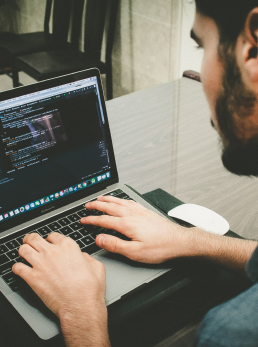
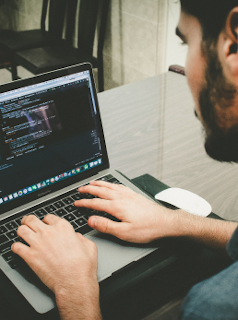
Ajeitando as imagens

diff --git a/css/style.css b/css/style.css
@@ -117,24 +117,21 @@ body {
     background: url(../img/container.svg) no-repeat;
     min-height: 750px;
     min-width: 500px;
-    /* align-self: flex-end; */
-    /* display: flex; */
-    /* justify-content: ; */
-    /* flex-direction: column; */
 }
 
 .container-degrader img {
-    /* position: absolute; */
+    position: absolute;
     border-radius: 50px;
 }
 
-.img_02 {
-    /* top: 50px; */
-    /* margin-top: 100px; */
+#img_02 {
+    right: 290px;
+    top: 165px;
 }
 
-.img_03 {
-    /* float: bottom; */
+#img_03 {
+    right: 140px;
+    top: 350px;
 }
 
 /* Sobre e Projetos */
